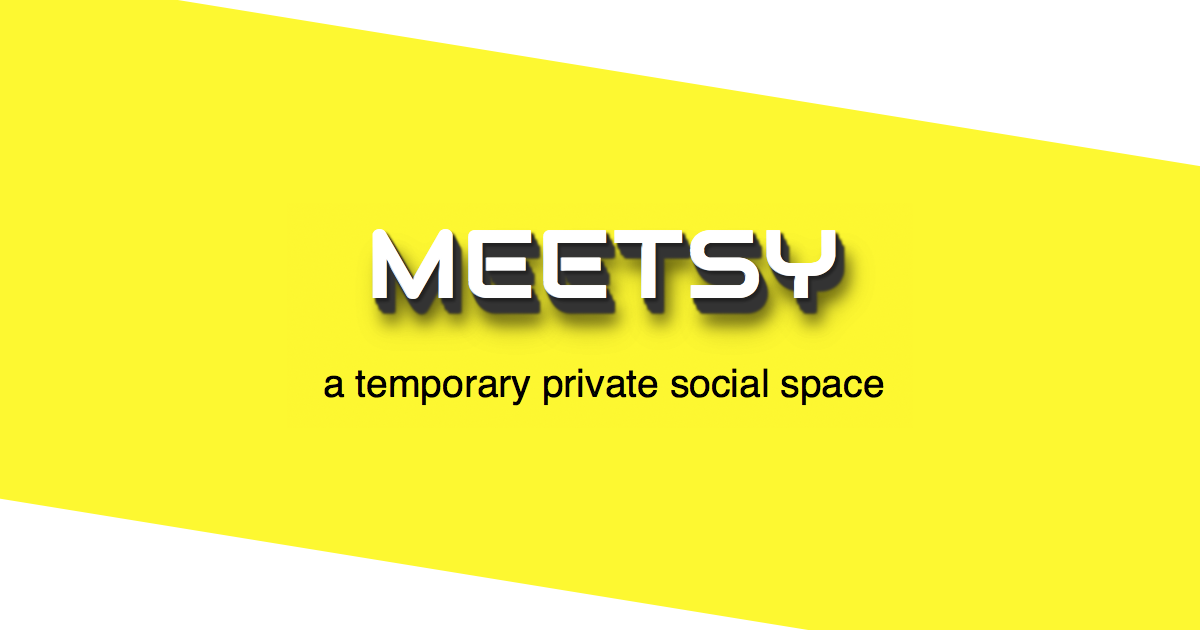
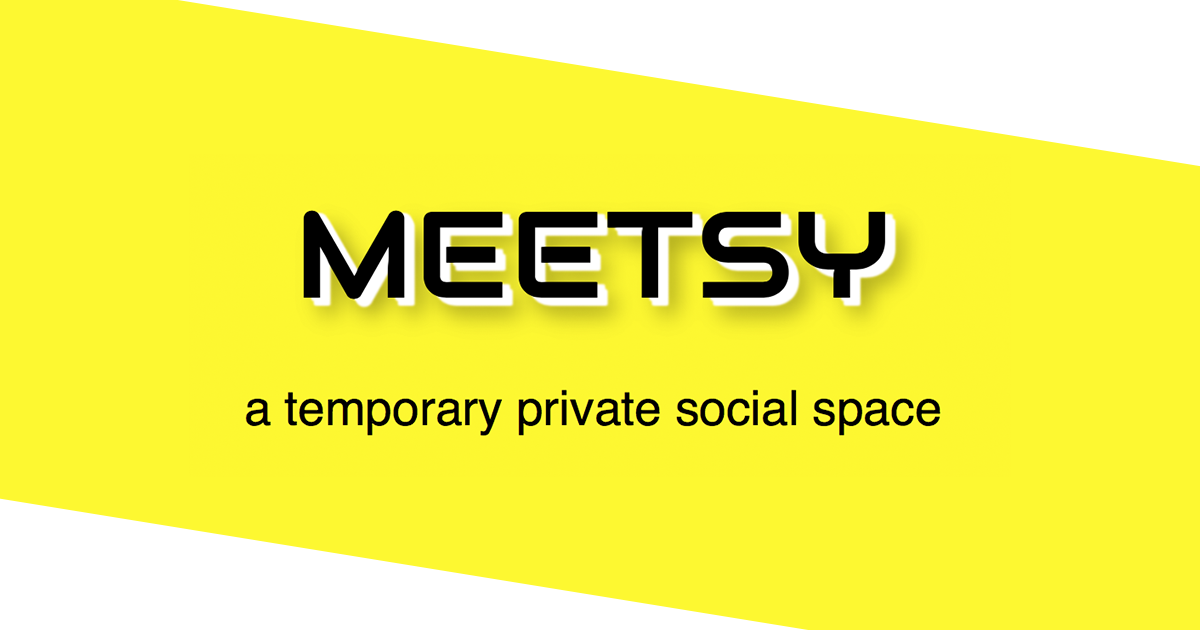
Add variable css colors for brand and toggle-botton for theme

Changed region(s): [[0.2467, 0.3317, 0.7708, 0.5429], [0.185, 0.573, 0.8017, 0.6937]]

diff --git a/app/assets/stylesheets/pages/_index.scss b/app/assets/stylesheets/pages/_index.scss
@@ -4,7 +4,7 @@
 
 body {
   margin: 0;
-  color: $brand-color-text;
+  color: var(--brand-color-text);
   font-size: 16px;
 }
 
@@ -32,14 +32,14 @@ img {
 .form-control, input, .update_text textarea, .comment_text textarea {
   height: 2.5em;
   border: none;
-  border-bottom: 2px solid $brand-color;
-  background-color: $brand-color-2;;
+  border-bottom: 2px solid var(--brand-color-primary);
+  background-color: var(--brand-color-secondary);;
   display: inline;
-  color: $brand-color-text;
+  color: var(--brand-color-text);
 
   &:focus {
-    box-shadow: inset 0px 1px 0px 1px $brand-color;
-    border-bottom: 2px solid $brand-color;
+    box-shadow: inset 0px 1px 0px 1px var(--brand-color-primary);
+    border-bottom: 2px solid var(--brand-color-primary);
     outline: 0;
     transition: border-color 0.15s ease-in-out, box-shadow 0.15s ease-in-out;
   }
@@ -51,10 +51,10 @@ img {
 
 .top-svg, .bottom-svg {
   path {
-    fill: $brand-color-2;
+    fill: var(--brand-color-secondary);
   }
   width: 100vw;
-  max-height: 50px;
+  max-height: 60px;
   position: relative;
   left: 50%;
   right: 50%;
@@ -64,7 +64,7 @@ img {
 
 
 .top-svg {
-  bottom: 44px;
+  bottom: 54px;
   margin-bottom: -25px;
 }
 
@@ -72,7 +72,7 @@ img {
   /* top: 44px; */
   /* margin-top: -25px; */
   transform: rotate(180deg);
-  background-color: $brand-color;
+  background-color: var(--brand-color-overlay);
 }
 
 .duplicate-svg {
@@ -80,10 +80,10 @@ img {
     fill: $overlay-color;
   }
   width: 100vw;
-  max-height: 50px;
+  max-height: 60px;
   position: relative;
   transform: rotate(180deg);
-  top: 50px;
+  top: 60px;
   left: 50%;
   right: 50%;
   margin-left: -50vw;
@@ -95,10 +95,10 @@ img {
   path {
     fill: $overlay-color;
   }
-  max-height: 50px;
+  max-height: 60px;
 }
 
 .btn-brand {
   color: black;
-  background-color: $brand-color;
+  background-color: var(--brand-color-primary);
 }

diff --git a/app/assets/stylesheets/config/_colors.scss b/app/assets/stylesheets/config/_colors.scss
@@ -9,8 +9,24 @@ $green: #28a745;
 $gray: #222;
 $light-gray: #F4F4F4;
 
-$brand-color: #ffff00;
-$brand-color-2: white;
-$brand-color-3: #F2F2F2;
-$brand-color-heading: black;
-$brand-color-text: #111;
+body {
+  --brand-color-primary: #ffff00;
+  --brand-color-secondary: white;
+  --brand-color-overlay: #ffff00;
+  --brand-color-pane: #F2F2F2;
+  --brand-color-heading: black;
+  --brand-color-heading-pane: black;
+  --brand-color-text: #111;
+  --brand-color-shadow: white;
+}
+
+body.dark-theme {
+  --brand-color-primary: #ffff00;
+  --brand-color-secondary: #111;
+  --brand-color-overlay: #333;
+  --brand-color-pane: #222;
+  --brand-color-heading: white;
+  --brand-color-heading-pane: #ffff00;
+  --brand-color-text: #fefefe;
+  --brand-color-shadow: black;
+}

diff --git a/app/javascript/components/dark_theme.js b/app/javascript/components/dark_theme.js
@@ -1,0 +1,21 @@
+// Select the button
+const toggleTheme = () => {
+  const btn = document.querySelector(".btn-toggle");
+ 
+  // Listen for a click on the button
+  btn.addEventListener("click", function() {
+  // Then toggle (add/remove) the .dark-theme class to the body
+  document.body.classList.toggle("dark-theme");
+
+  // Let's say the theme is equal to light
+  let theme = "light";
+  // If the body contains the .dark-theme class...
+  if (document.body.classList.contains("dark-theme")) {
+    // ...then let's make the theme dark
+    theme = "dark";
+  }
+  // Then save the choice in a cookie
+  document.cookie = "theme=" + theme;
+  });
+}
+export { toggleTheme };

diff --git a/app/assets/stylesheets/components/_logo_banner.scss b/app/assets/stylesheets/components/_logo_banner.scss
@@ -1,20 +1,20 @@
 .logo-banner {
   h1, h2, h3 {
     font-weight: 700;
-    color: black;
-    text-shadow: 2px 1px 1px white,
-                 3px 2px 1px white,
+    color: var(--brand-color-heading);
+    text-shadow: 2px 1px 1px var(--brand-color-shadow),
+                 3px 2px 1px var(--brand-color-shadow),
                  5px 4px 6px rgba(0,0,0,0.2),
   }
 }
 
 h1, h2, h3 {
   font-weight: 700;
-  color: black;
+  color: var(--brand-color-heading);
 }
 
 .logo-banner p {
-  color: black;
+  color: var(--brand-color-heading);
   margin: 0.5em;
 }
 

diff --git a/app/javascript/packs/application.js b/app/javascript/packs/application.js
@@ -31,10 +31,12 @@ import { responseForm } from '../components/response_form';
 import { shareNative } from '../components/share_buttons';
 import { copyLink } from '../components/share_buttons';
 import { showQRCode } from '../components/share_buttons';
+import { toggleTheme } from '../components/dark_theme';
 
 document.addEventListener('turbolinks:load', () => {
   // Call your functions here, e.g:
   // initSelect2();
+  toggleTheme();
   responseForm();
   shareNative();
   copyLink();

diff --git a/app/assets/stylesheets/components/_photos.scss b/app/assets/stylesheets/components/_photos.scss
@@ -18,7 +18,7 @@
 }
 
 .photo-link {
-  border: 3px dotted $brand-color;
+  border: 3px dotted var(--brand-color-primary);
   border-radius: 25%;
   display: flex;
   justify-content: center;
@@ -32,7 +32,7 @@
 
   label {
     font-size: 18px;
-    color: $brand-color-text;
+    color: var(--brand-color-text);
     cursor: pointer;
     z-index: 1;
     padding: 1.5em;

diff --git a/app/assets/stylesheets/config/_bootstrap_variables.scss b/app/assets/stylesheets/config/_bootstrap_variables.scss
@@ -6,8 +6,8 @@
 // General style
 $font-family-sans-serif:  $body-font;
 $headings-font-family:    $headers-font;
-$body-bg:                 $brand-color-2;
-$overlay-color:           $brand-color;
+$body-bg:                 var(--brand-color-secondary);
+$overlay-color:           var(--brand-color-overlay);
 $font-size-base:          1rem;
 
 // Colors

diff --git a/app/assets/stylesheets/components/_attendance.scss b/app/assets/stylesheets/components/_attendance.scss
@@ -12,10 +12,10 @@ input[type="radio"] {
     width: 48px;
     text-align: center;
     transition: 0.5s ease;
-    color: $brand-color-text;
+    color: var(--brand-color-text);
     font-size: 17pt;
     line-height: 2em;
-    border: 2px solid $brand-color;
+    border: 2px solid var(--brand-color-primary);
   }
 
   label:hover {

diff --git a/app/assets/stylesheets/components/_pane.scss b/app/assets/stylesheets/components/_pane.scss
@@ -1,7 +1,7 @@
 .pane {
-  background-color: $brand-color-3;
+  background-color: var(--brand-color-pane);
   .pane-name {
-    color: $brand-color-heading;
+    color: var(--brand-color-heading-pane);
     position: absolute;
     right: 12px;
     top: -14px;

diff --git a/app/assets/stylesheets/components/_updates.scss b/app/assets/stylesheets/components/_updates.scss
@@ -5,9 +5,9 @@
 
 
 .update {
-  background-color: $brand-color-3;
+  background-color: var(--brand-color-pane);
   border-radius: 4px;
-  color: $brand-color-text;
+  color: var(--brand-color-text);
   padding: 8px;
   margin-bottom: 8px;
 }

diff --git a/app/assets/stylesheets/components/_buttons.scss b/app/assets/stylesheets/components/_buttons.scss
@@ -1,0 +1,6 @@
+.btn-toggle {
+  position: absolute;
+  right: 4px;
+  top: 4px;
+  background-color: var(--brand-color-primary);
+}

diff --git a/app/assets/stylesheets/components/_index.scss b/app/assets/stylesheets/components/_index.scss
@@ -7,3 +7,4 @@
 @import "pane";
 @import "photos";
 @import "updates";
+@import "buttons";
